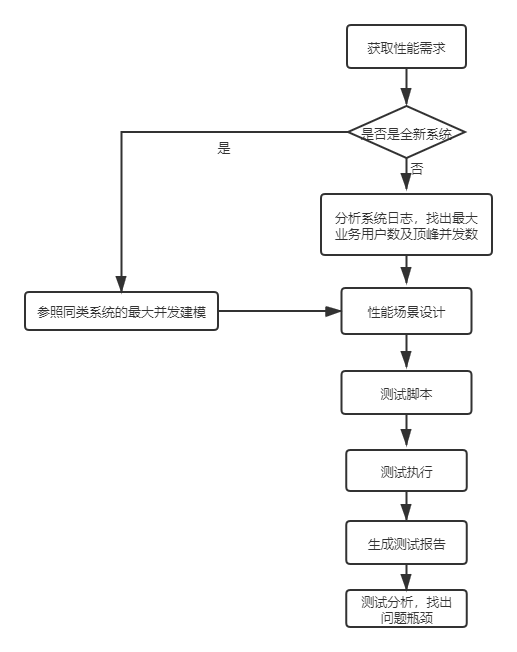
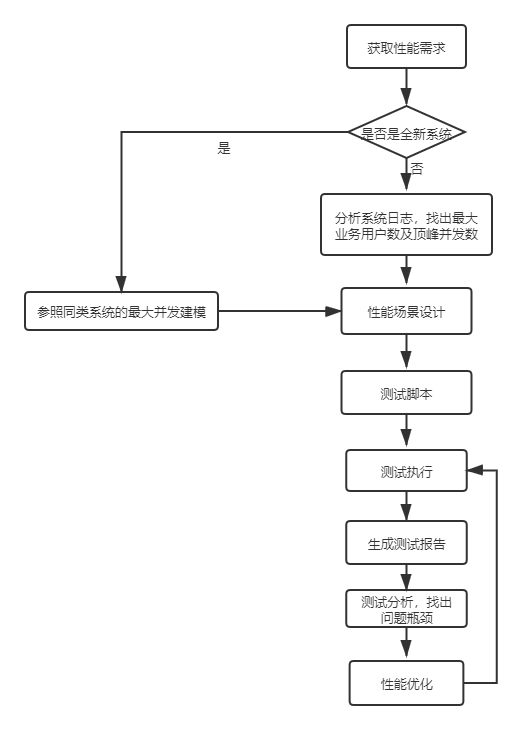
docs: update

Changed region(s): [[0.0309, 0.0307, 0.9594, 0.9816], [0.4023, 0.184, 0.4642, 0.2454]]

diff --git a/docs/advanced-testing/performance-test/performance-basis.md b/docs/advanced-testing/performance-test/performance-basis.md
@@ -1,22 +1,83 @@
 # 性能测试基础
 
-## 1. 基本流程
+## 性能测试类型
+
++ 负载测试：主要看系统能承受多大的负载，直至系统崩溃
+
++ 并发测试：主要看系统最大能支持多大并发
+
++ 压力测试：达到最大并发后，持续一段时间，看系统运行的状态
+
++ 容量测试：系统能承受的最大容量
++ 可靠性测试：达到最大压力时，系统长时间运行，是否会有内存泄漏
+
+## 基本流程
 
 ![性能测试流程](./images/性能测试流程.png)
 
-## 2. 基础概念
 
-+ 并发用户数
+
+## 性能测试术语解释：
+
+1、事务
+
+2、虚拟用户数（线程数）
+
+3、断言
+
+4、集合点
+
+## 性能测试指标：
+
++ 系统指标（与用户场景和需求相关）：
+
++ TPS（每秒事务数）：每秒钟系统处理的事务数
+
++ 并发用户数：同一时间并发的用户数
 
   业务层面：实际使用系统的用户总数
 
   后端服务器层面：同时向服务器发送请求的数量
 
-+ 响应时间
++ 吞吐量：
+
+  request/second
+
+  pages/second
+
+  bytes/second
+
++ 吞吐率：
+
++ 响应时间：客户端发送请求后，服务器作出回应后返回给client的时间
 
   前端响应：前端拿到服务端返回的数据后，浏览器渲染到曾献的时间
 
   系统响应时间：包含了请求时间、数据传输时间、应用服务处理时间、数据库时间等
 
-+ 吞吐量
++ 点击量
+
++ 点击率：同一时间，用户的点击率
+
+## 场景分析设计
+1、用户量访问比较大的功能
+2、与金钱相关比较重要的场景
+3、影响业务主流程的场景
+4、开发人员任务可能存在性能问题的场景
+5、应该考虑综合场景，防止线程争用导致现场死锁以及数据库死锁
+6、应该做稳定性能场景测试，防止长时间运行导致的内存泄露情况发生
+
+## 硬件指标：
+
++ cpu 使用率
++ 内存使用率
++ io
+
+## 性能测试工具
+
+1、jmeter：开源的 Java 项目
+
+2、loadrunner：
+
+
 
